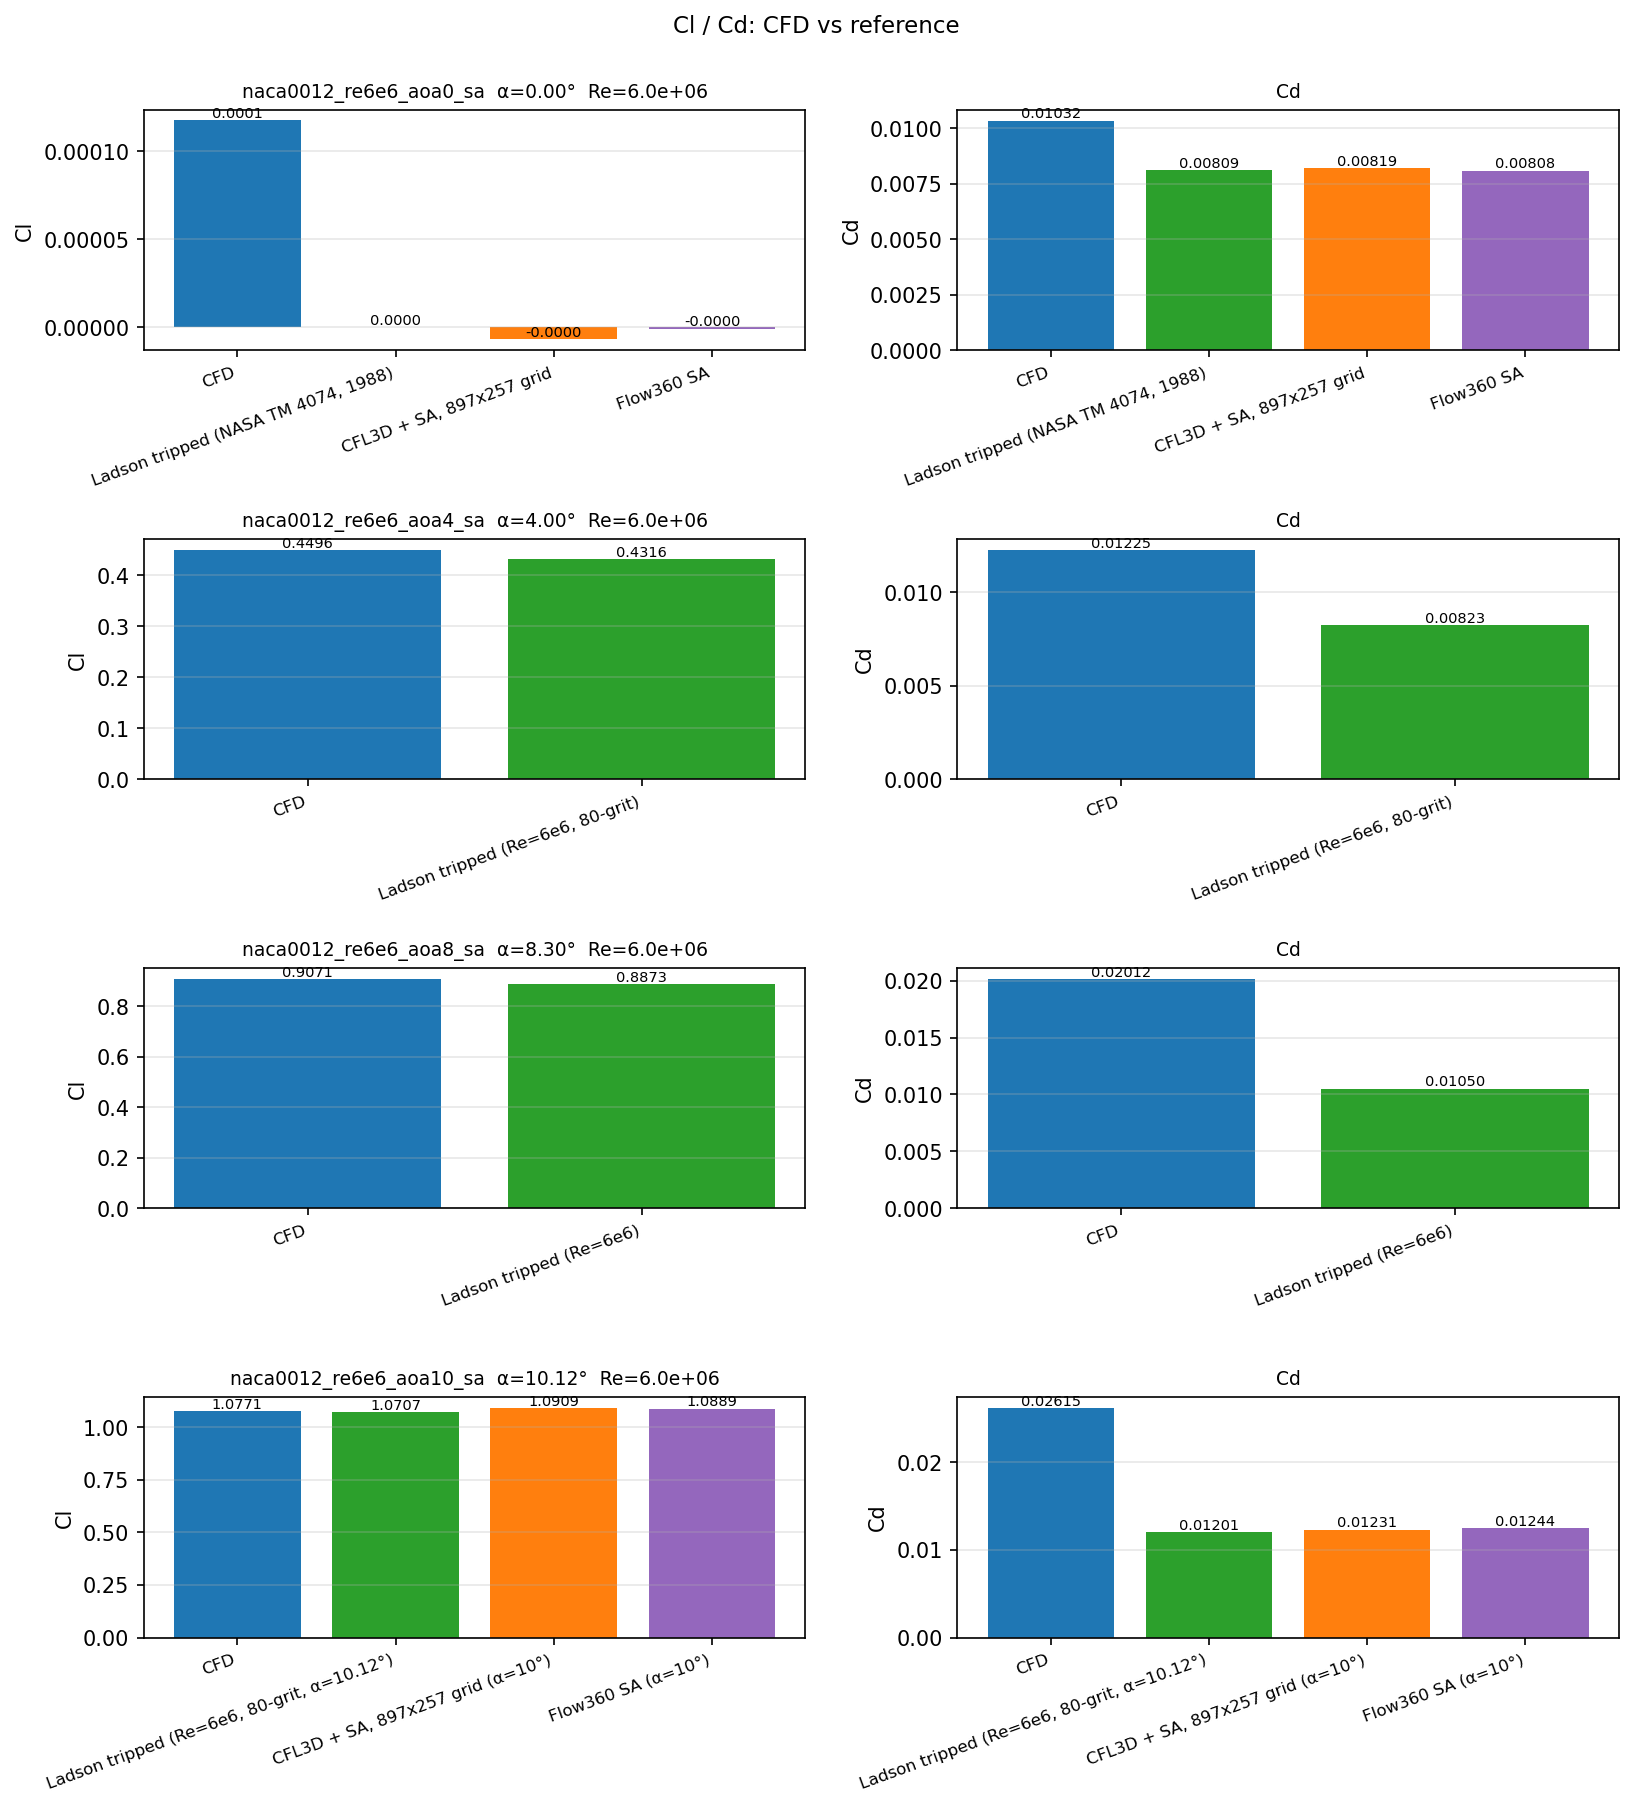
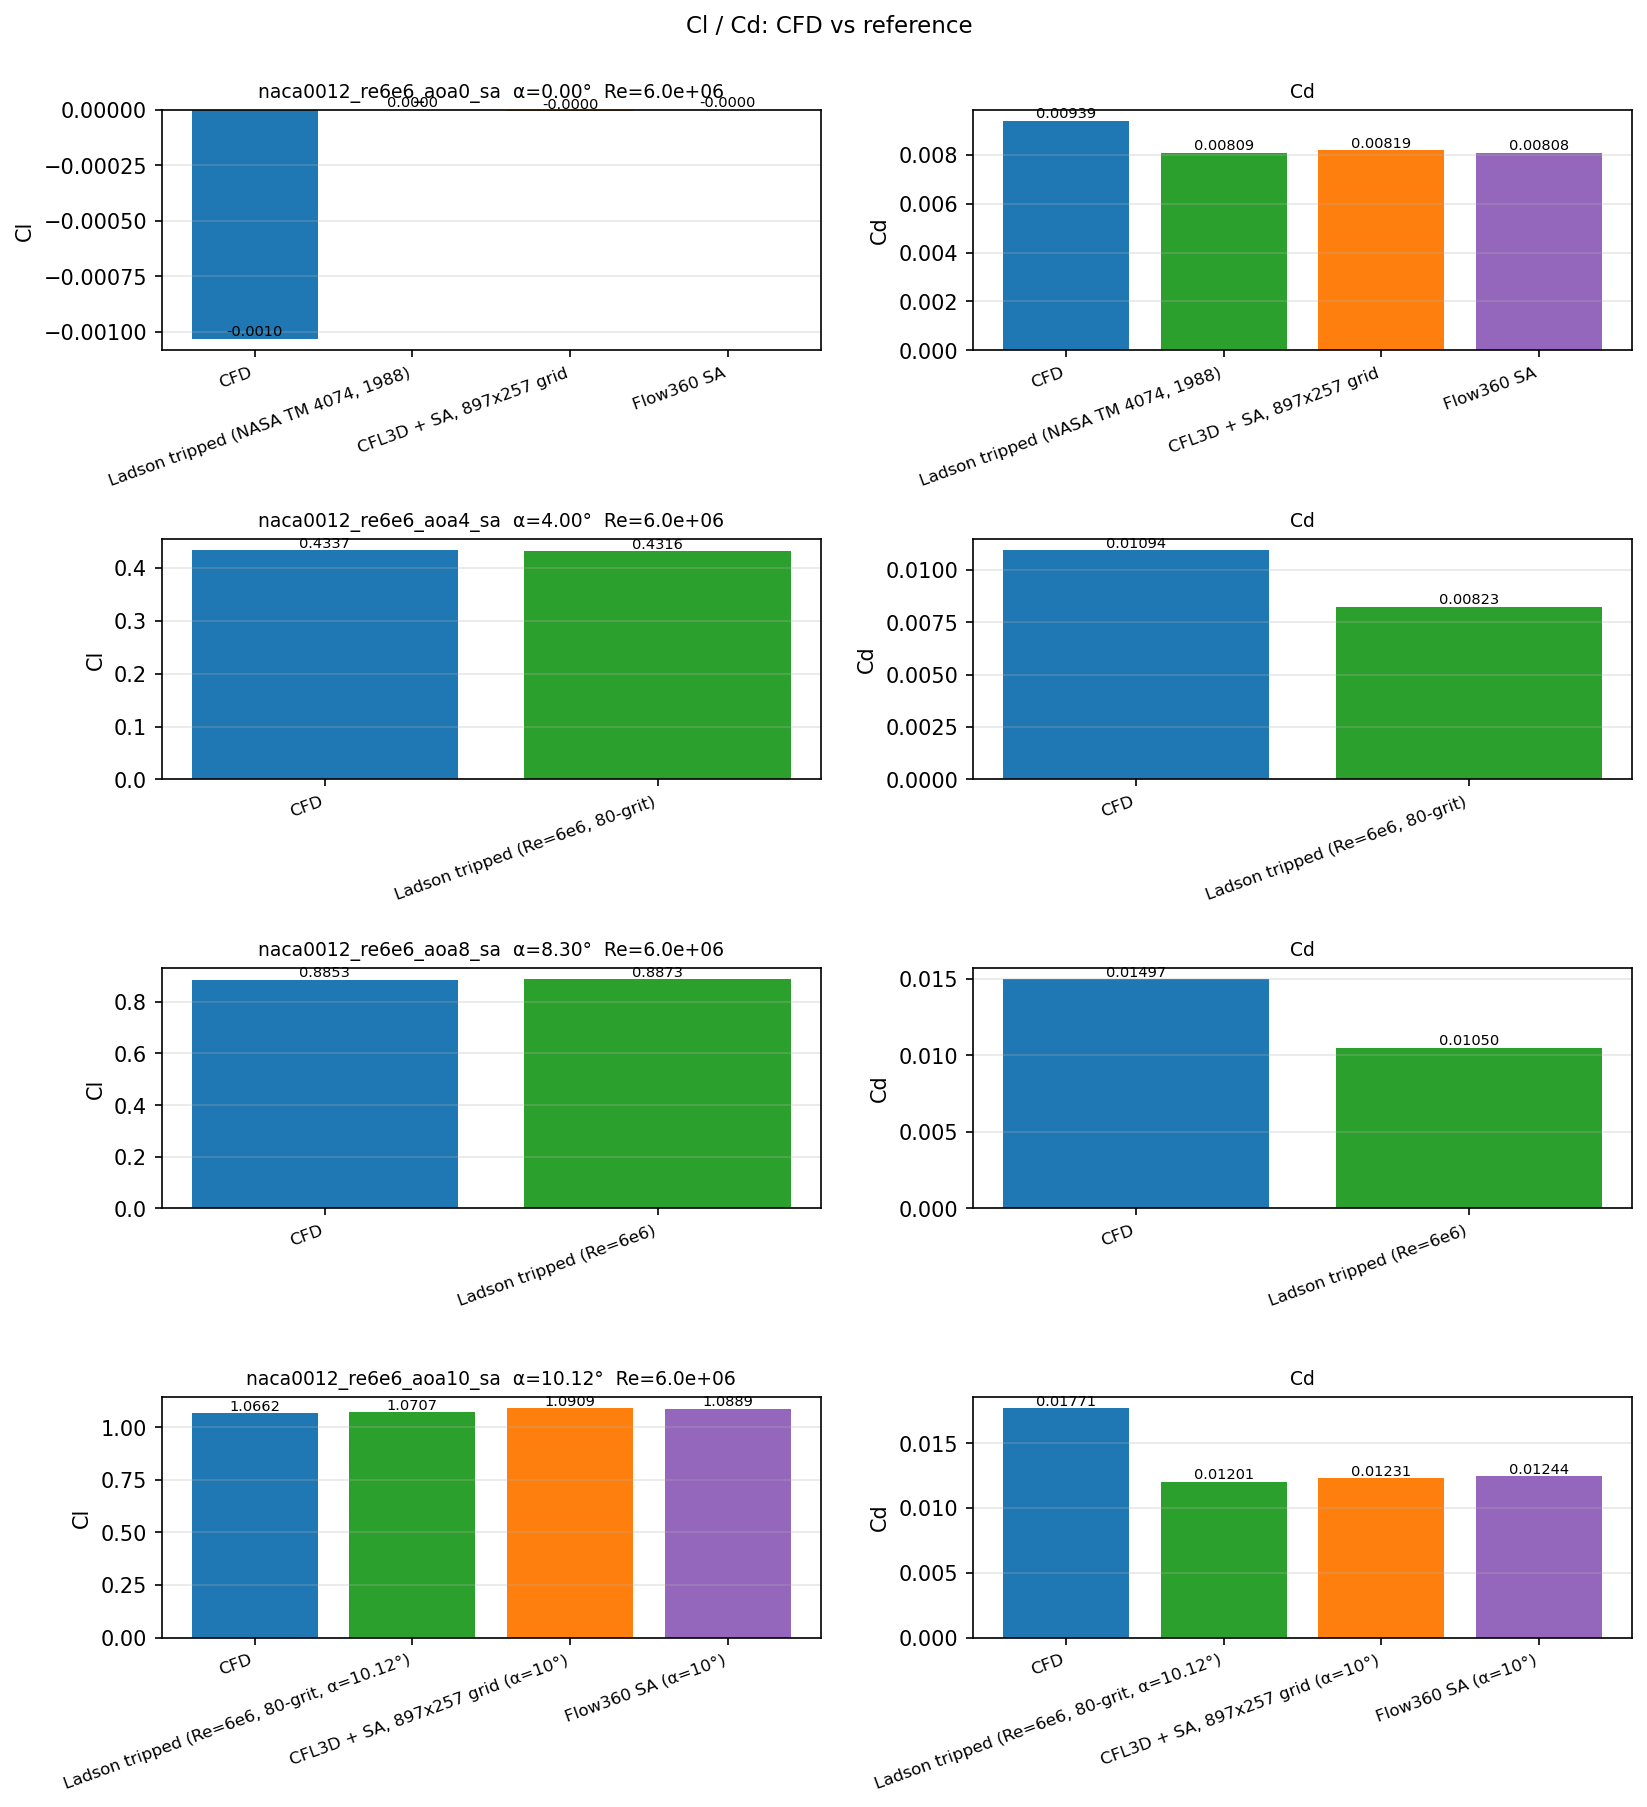
Ran validation for 4 AoA

diff --git a/validation/regime_A/report.md b/validation/regime_A/report.md
@@ -1,0 +1,42 @@
+# Regime A Validation Report
+
+Generated: 2026-05-12T14:05:46 UTC
+
+## Overview
+
+- **Name:** Attached turbulent
+- **Physics:** Attached turbulent boundary layer, mild adverse pressure gradient, limited separation
+- **Design space:** α ∈ [0, 8], Re ∈ [1500000.0, 3000000.0], t/c ∈ [0.1, 0.18]
+- **CFD recipe:** SpalartAllmaras / wall_functions (y+=30.0)
+
+## Tolerance gate
+
+Acceptance: |ΔCl| ≤ 5.0%, |ΔCd| ≤ 10.0% (vs experimental primary).
+
+**Overall result: ❌ FAIL**
+
+## Per-case results
+
+| case_id                 |   α_deg |    Re |   Cl_cfd |   Cd_cfd | ΔCl%   |   ΔCd% | primary_ref                                | pass   |
+|:------------------------|--------:|------:|---------:|---------:|:-------|-------:|:-------------------------------------------|:-------|
+| naca0012_re6e6_aoa0_sa  |    0    | 6e+06 |  -0.001  |  0.00939 | —      |  16.06 | Ladson tripped (NASA TM 4074, 1988)        | ❌      |
+| naca0012_re6e6_aoa4_sa  |    4    | 6e+06 |   0.4337 |  0.01094 | +0.49  |  32.9  | Ladson tripped (Re=6e6, 80-grit)           | ❌      |
+| naca0012_re6e6_aoa8_sa  |    8.3  | 6e+06 |   0.8853 |  0.01497 | -0.23  |  42.56 | Ladson tripped (Re=6e6)                    | ❌      |
+| naca0012_re6e6_aoa10_sa |   10.12 | 6e+06 |   1.0662 |  0.01771 | -0.42  |  47.42 | Ladson tripped (Re=6e6, 80-grit, α=10.12°) | ❌      |
+
+## Figures
+
+- Cl/Cd comparison: `figures/cl_cd_comparison.png`
+- Cp overlay: `figures/cp_comparison__naca0012_re6e6_aoa0_sa.png`
+- Cp overlay: `figures/cp_comparison__naca0012_re6e6_aoa10_sa.png`
+- Residuals: `figures/residual_history__naca0012_re6e6_aoa0_sa.png`
+- Residuals: `figures/residual_history__naca0012_re6e6_aoa4_sa.png`
+- Residuals: `figures/residual_history__naca0012_re6e6_aoa8_sa.png`
+- Residuals: `figures/residual_history__naca0012_re6e6_aoa10_sa.png`
+
+## Citations
+
+- Ladson, NASA TM 4074, 1988
+- Abbott & von Doenhoff, Theory of Wing Sections, 1959
+- CFL3D + SA on NASA TMR, https://tmbwg.github.io/turbmodels/naca0012_val_sa.html
+- Flow360 NACA0012 validation study
